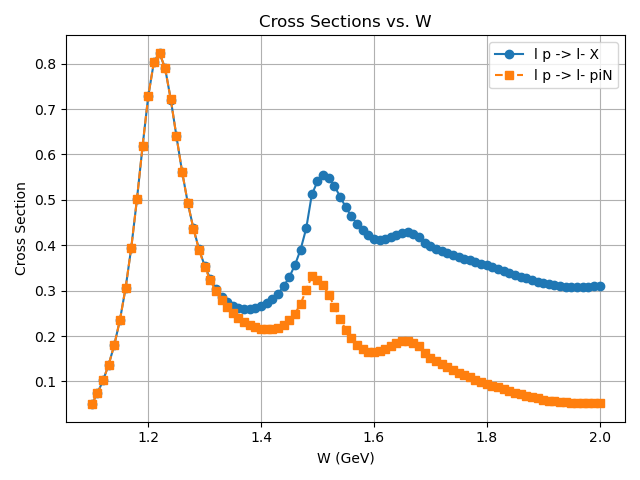
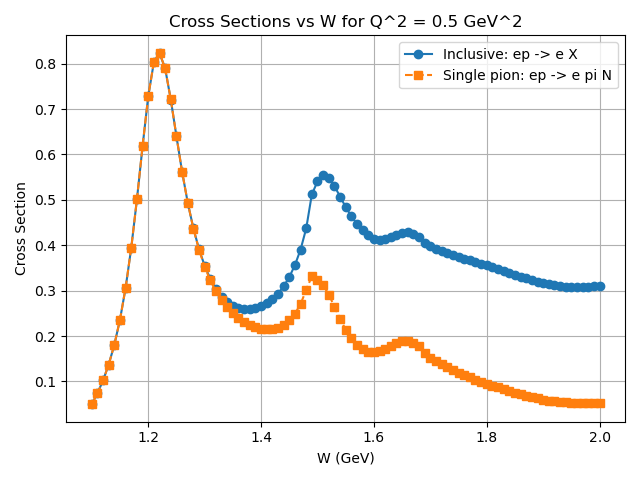
run.sh and plot.py streamlined, gitignore added

Changed region(s): [[0.625, 0.0938, 0.9688, 0.1875], [0.25, 0.0312, 0.8125, 0.0625]]

diff --git a/plot.py b/plot.py
@@ -6,8 +6,10 @@ W_values = []
 lp_cross = []      # l p -> l- X values (4th column)
 lp_pi_cross = []   # l p -> l- piN values (5th column)
 
-# Open and parse the output file
-with open("output.txt", "r") as f:
+Q2 = 2.75  # GeV^2
+
+# Open and parse the output file (e.g., "cc_for_0.5.txt")
+with open(f"cc_for_Q2={Q2}_GeV.txt", "r") as f:
     for line in f:
         line = line.strip()
         # Skip header lines or empty lines
@@ -29,17 +31,17 @@ with open("output.txt", "r") as f:
 
 # Create the plot
 plt.figure()
-plt.plot(W_values, lp_cross, marker='o', linestyle='-', label="l p -> l- X")
-plt.plot(W_values, lp_pi_cross, marker='s', linestyle='--', label="l p -> l- piN")
+plt.plot(W_values, lp_cross, marker='o', linestyle='-', label="Inclusive: ep -> e X")
+plt.plot(W_values, lp_pi_cross, marker='s', linestyle='--', label="Single pion: ep -> e pi N")
 plt.xlabel("W (GeV)")
 plt.ylabel("Cross Section")
-plt.title("Cross Sections vs  for Q^2 = 2.75 GeV^2")
+plt.title(f"Cross Sections vs W for Q^2 = {Q2} GeV^2")
 plt.grid(True)
 plt.legend()
 plt.tight_layout()
 
-# Save the plot as a PNG file
-plt.savefig("cc_VS_W_for_Q2=2.75_GeV_RGA.png")
+# Save the plot as a PNG file (e.g., "cc_VS_W_for_Q2=0.5_GeV_RGA.png")
+plt.savefig(f"cc_VS_W_for_Q2={Q2}_GeV_RGA.png")
 
 # Display the plot
 plt.show()
